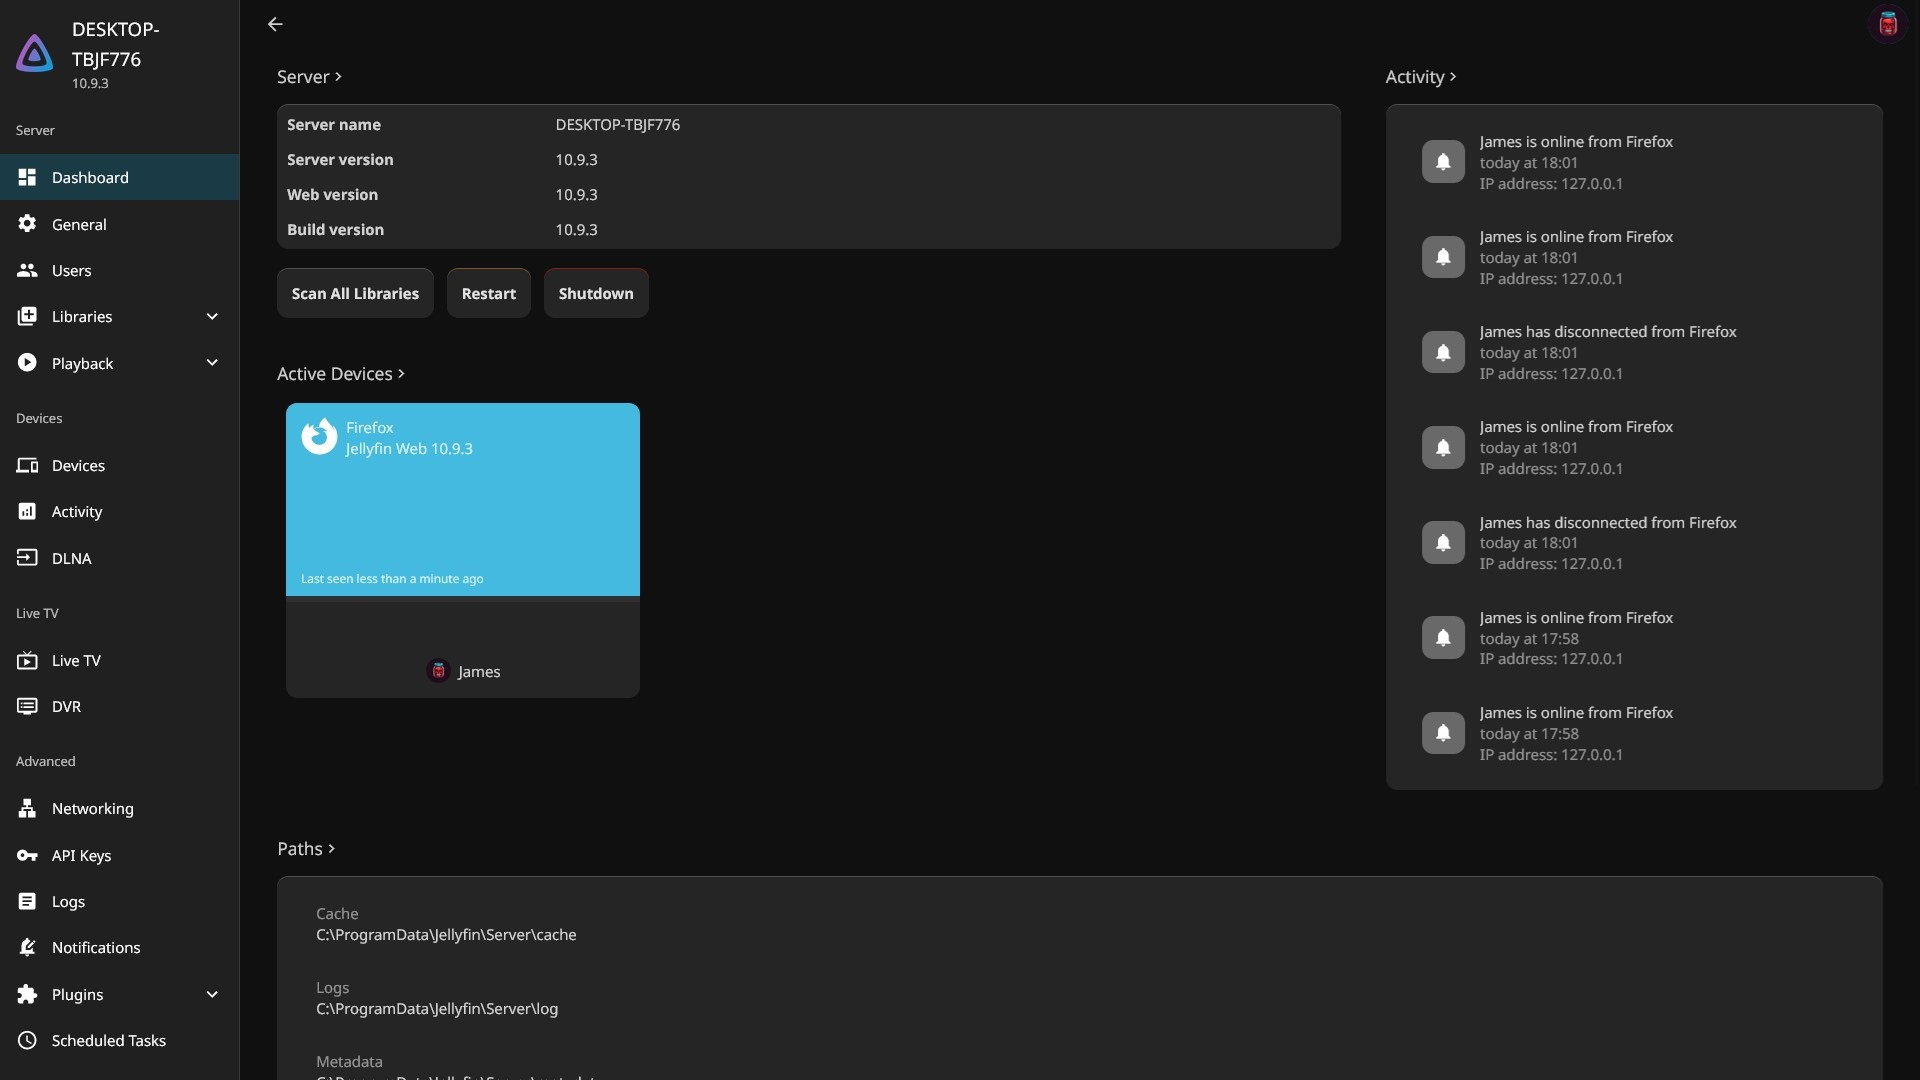
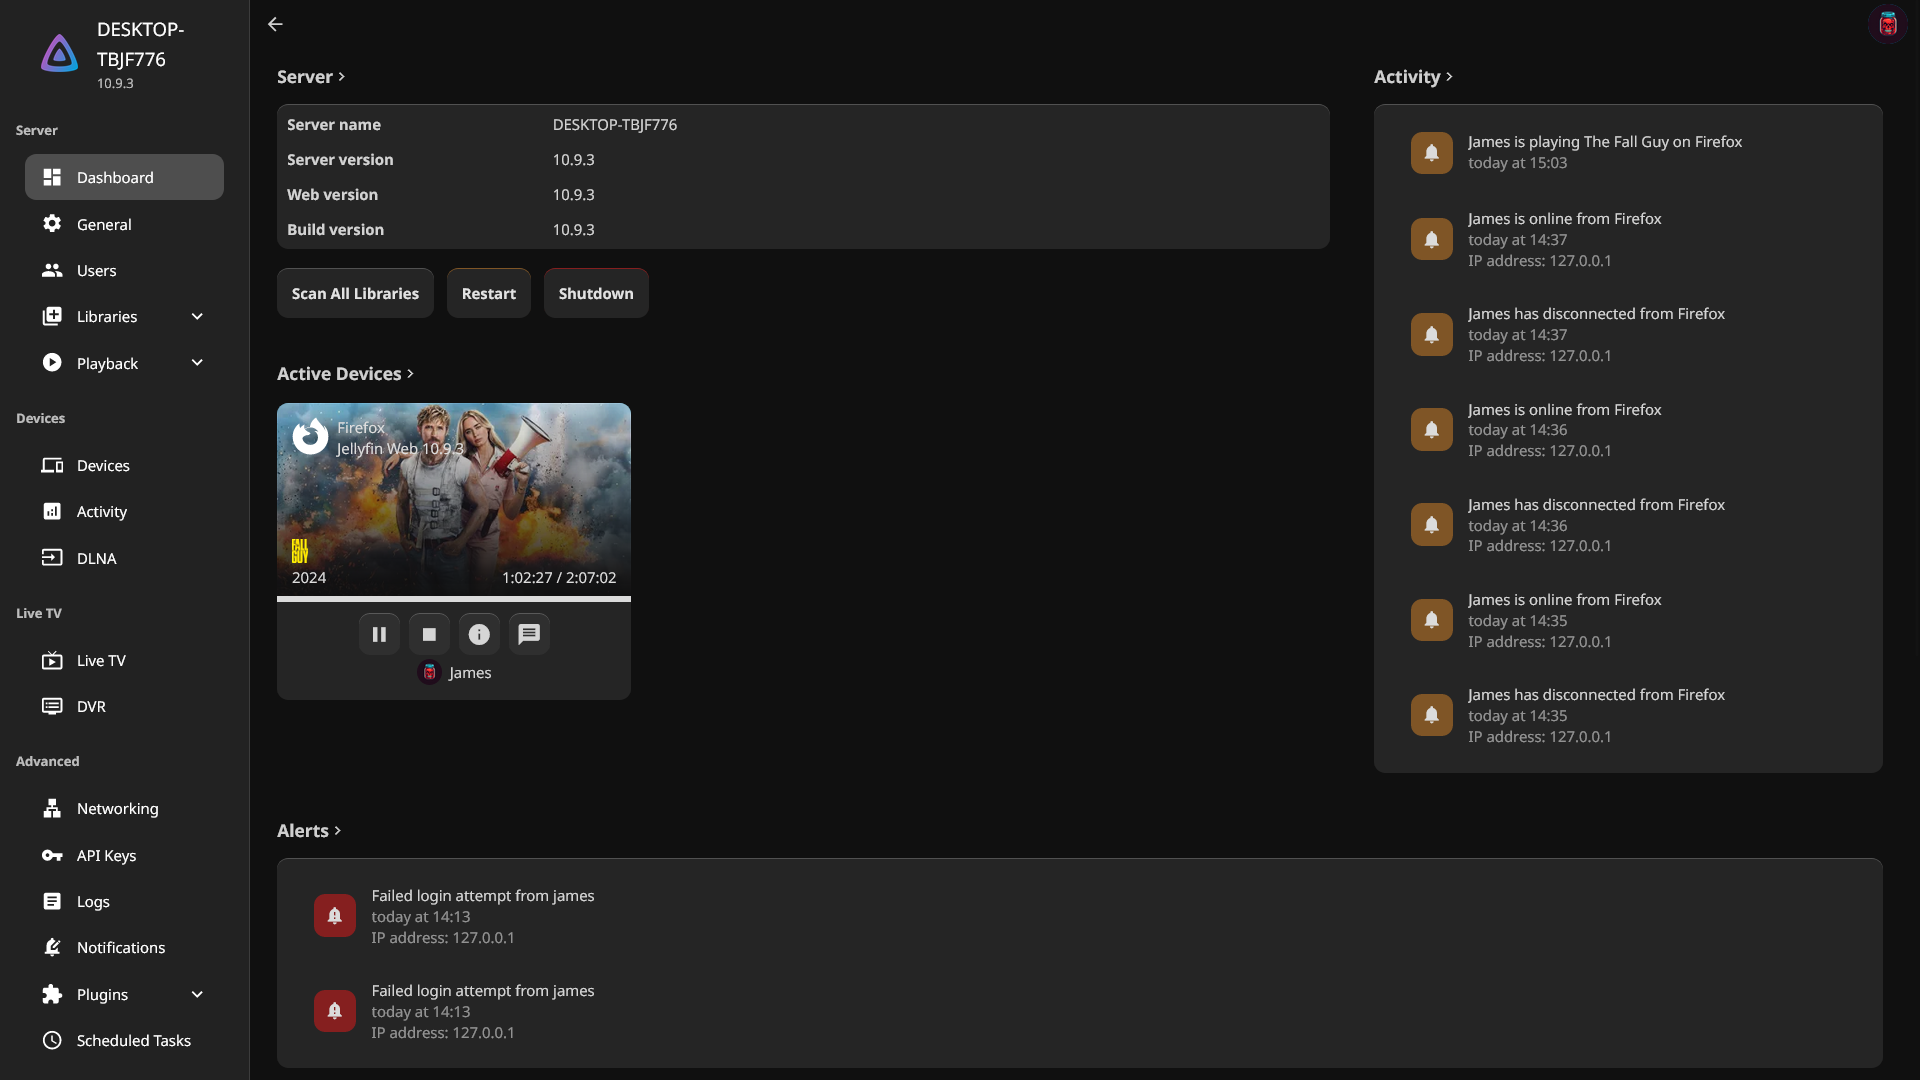
style: :art: Changed the admin page to reflect the rest of the theme

diff --git a/theme/base.css b/theme/base.css
@@ -90,7 +90,9 @@ html {
 ),
 .osdHeader .headerLeft .paper-icon-button-light,
 .detailButton,
-.sliderBubble {
+.sliderBubble,
+.MuiDataGrid-root,
+.MuiMenu-list {
     border-radius: var(--theme-roundness);
     box-shadow: inset 0 1px var(--theme-menu-shadow-colour);
     background-color: var(--theme-menu-background-colour);
@@ -161,11 +163,12 @@ html {
     transition: none;
 }
 
-.layout-desktop .mainDrawer {
+.layout-desktop .mainDrawer,
+.MuiDrawer-paperAnchorLeft {
     left: 0 !important;
     top: 0;
     width: 250px !important;
-    background-color: var(--theme-sidebar-background-colour);
+    background-color: var(--theme-sidebar-background-colour) !important;
     z-index: 100;
 }
 
@@ -194,7 +197,9 @@ html {
 
 .navMenuOption,
 .navMenuOption-selected,
-.navMenuOption:hover {
+.navMenuOption:hover,
+.MuiListItem-root,
+.Mui-selected {
     border-radius: var(--theme-roundness) !important;
     width: 80%;
     margin: auto !important;
@@ -205,7 +210,8 @@ html {
     background-color: var(--theme-menu-shadow-colour);
 }
 
-.navMenuOption-selected {
+.navMenuOption-selected,
+.Mui-selected {
     background: var(--theme-menu-shadow-colour) !important;
 }
 
@@ -271,7 +277,9 @@ html {
 /* User Settings */
 
 .readOnlyContent h2,
-.sectionTitle {
+.sectionTitle,
+.dashboardSection h3,
+.MuiListSubheader-root {
     font-weight: bold;
 }
 
@@ -283,7 +291,9 @@ html {
     padding-left: 1.2em !important;
 }
 
-.listItem:hover {
+.listItem:hover,
+.MuiButtonBase-root,
+.MuiButtonBase-root:hover {
     border-radius: var(--theme-roundness);
 }
 
@@ -359,8 +369,10 @@ html {
     z-index: 1;
 }
 
-.layout-desktop .backgroundContainer.withBackdrop {
+.layout-desktop .backgroundContainer.withBackdrop,
+.MuiPaper-root {
     background-color: unset;
+    background-image: unset;
 }
 
 .layout-desktop .backdropImage {
@@ -412,7 +424,10 @@ html {
 
 }
 
-#btnRestartServer:hover {
+#btnRestartServer:hover,
+.notifications,
+.MuiChip-filledInfo {
+    color: var(--theme--hover-colour) !important;
     background-color: var(--theme-restart-colour) !important;
 }
 
@@ -422,7 +437,9 @@ html {
 }
 
 #btnShutdown:hover,
-.btnDelete:hover {
+.btnDelete:hover,
+.notification_important,
+.MuiChip-filledError {
     color: var(--theme--hover-colour) !important;
     background-color: var(--theme-shutdown-colour) !important;
 }
@@ -440,13 +457,24 @@ html {
     border-top-right-radius: var(--theme-roundness);
 }
 
+div[data-role="controlgroup"] a[data-role="button"]:first-child {
+    border-bottom-left-radius: var(--theme-roundness);
+    border-top-left-radius: var(--theme-roundness);
+}
+
+div[data-role="controlgroup"] a[data-role="button"]:last-child {
+    border-bottom-right-radius: var(--theme-roundness);
+    border-top-right-radius: var(--theme-roundness);
+}
+
 /* Base Colours */
 
 .selectLabelFocused,
 .textareaLabelFocused,
 .inputLabelFocused,
 .mdl-slider,
-.metadataSidebarIcon {
+.metadataSidebarIcon,
+.button-link {
     color: var(--theme--hover-colour);
 }
 
@@ -454,13 +482,18 @@ html {
 .sliderMarker.watched,
 .itemProgressBarForeground,
 .playbackProgress > div,
-.iconOsdProgressInner {
-    background-color: var(--theme--hover-colour);
+.iconOsdProgressInner,
+div[data-role="controlgroup"] a.ui-btn-active {
+    background-color: var(--theme--hover-colour) !important;
 }
 
 .emby-checkbox:checked + span + .checkboxOutline,
 .itemProgressBar,
-.listItemIcon:not(.listItemIcon-transparent):not(.notification_important) {
+.listItemIcon:not(
+    .listItemIcon-transparent,
+    .notification_important,
+    .notifications
+) {
     background-color: var(--theme-base-colour) !important;
 }
 

diff --git a/release.config.js b/release.config.js
@@ -33,7 +33,7 @@ const config = {
                     { type: "chore", release: "patch" },
                     { type: "docs", release: "patch" },
                     { type: "refactor", release: "patch" },
-                    { type: "style", release: "minor" },
+                    { type: "style", release: "patch" },
                     { breaking: true, release: "major" },
                 ],
             },
